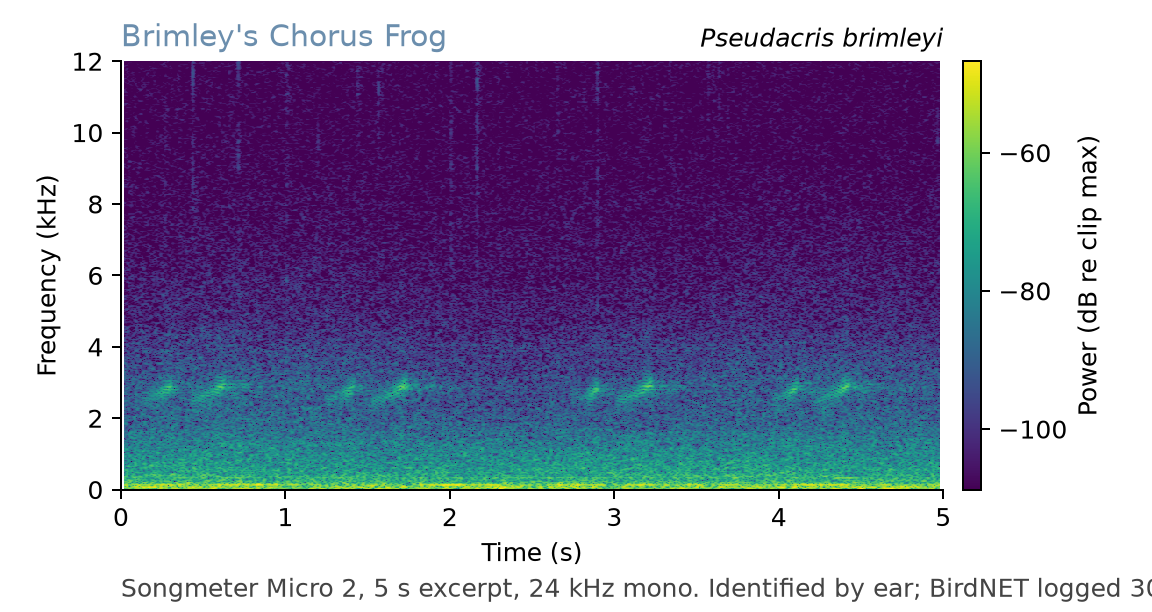
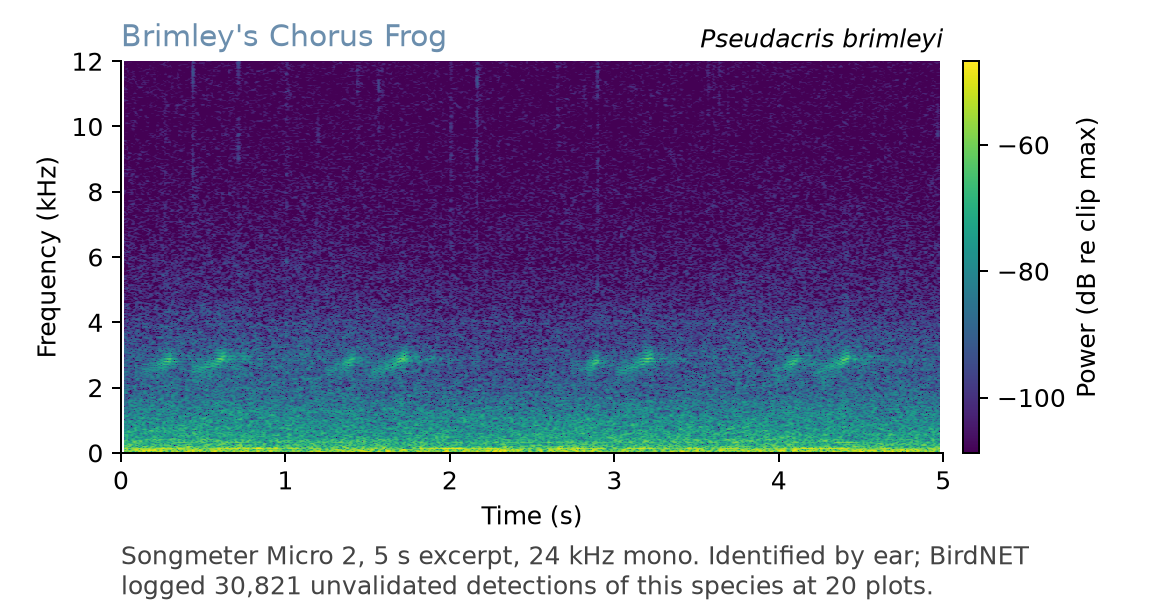
Wrap spectrogram captions to the canvas width
The season-wide detection counts made the caption long enough to run past the
figure edge, silently truncating it in the PNG. Wrap width measured against
the rendered text extent rather than guessed, and verified across all five
figures with a bounding-box check.

diff --git a/build/make_spectrograms.py b/build/make_spectrograms.py
@@ -6,6 +6,7 @@ and never copied into docs/.
 import json
 import os
 import subprocess
+import textwrap
 import numpy as np
 import matplotlib as mpl
 import matplotlib.pyplot as plt
@@ -133,14 +134,19 @@ def render(fname, meta, outdir=SPEC_OUT):
         ax.spines[s].set_visible(False)
     ax.tick_params(direction="out")
 
+    # Wrapped to the axes width: the caption is long enough to run off the
+    # canvas as a single line, which silently truncates it in the PNG.
     caption = (f"Songmeter Micro 2, {dur:.0f} s excerpt, {sr/1000:g} kHz mono. "
                f"Identified by ear; BirdNET logged "
                f"{meta['n_detections']:,} unvalidated detections of this "
                f"species at {meta['n_plots']} plots.")
-    fig.text(0.105, 0.015, caption, ha="left", va="bottom",
+    # Wrap width 72 measured against the rendered text extent at this figure
+    # size and font; wider values push the last line past the canvas edge.
+    fig.text(0.105, 0.015, "\n".join(textwrap.wrap(caption, 72)),
+             ha="left", va="bottom",
              fontsize=mpl.rcParams["legend.fontsize"], color="#444444")
 
-    fig.subplots_adjust(left=0.105, right=0.965, top=0.90, bottom=0.20)
+    fig.subplots_adjust(left=0.105, right=0.965, top=0.90, bottom=0.26)
 
     out = os.path.join(outdir, meta["clip_id"] + ".png")
     fig.savefig(out, dpi=DPI)
